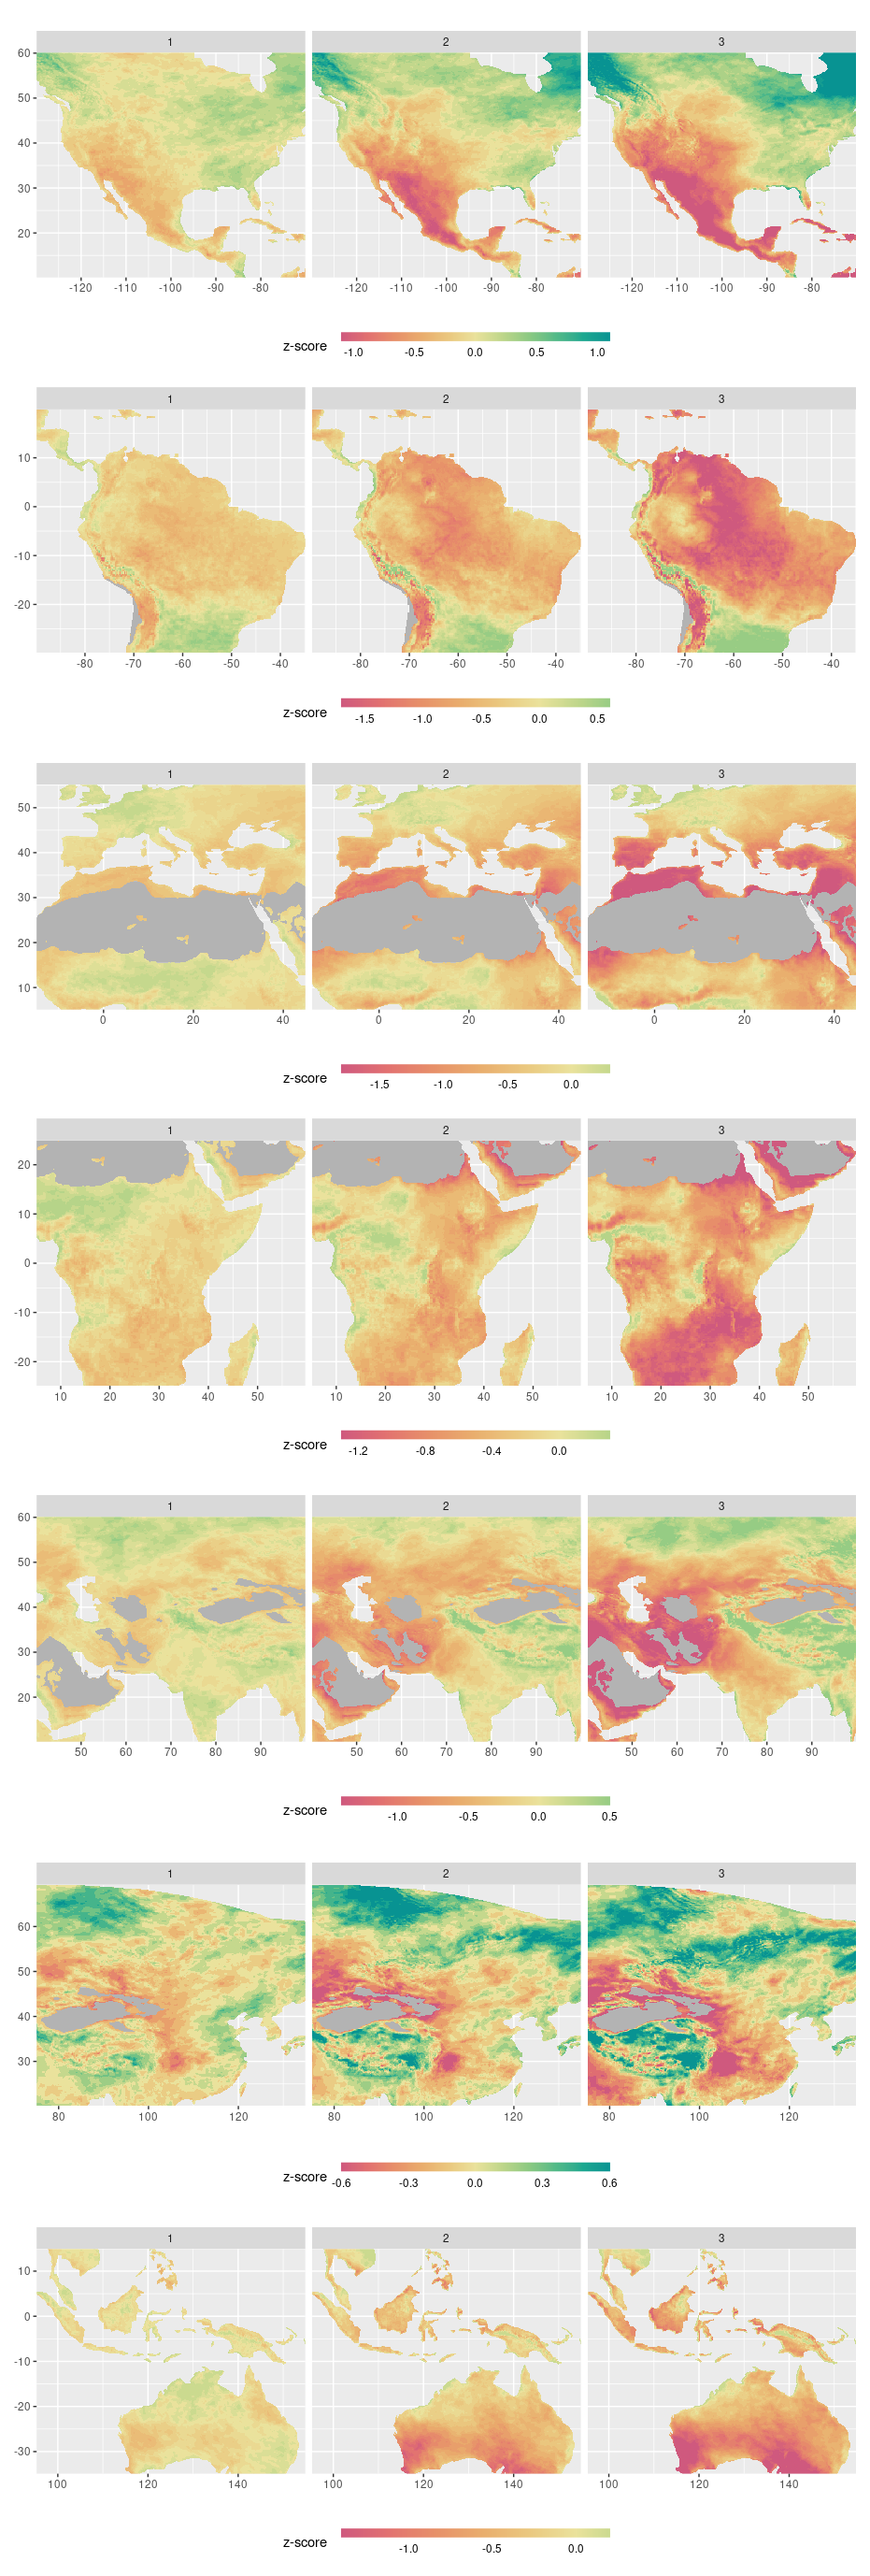
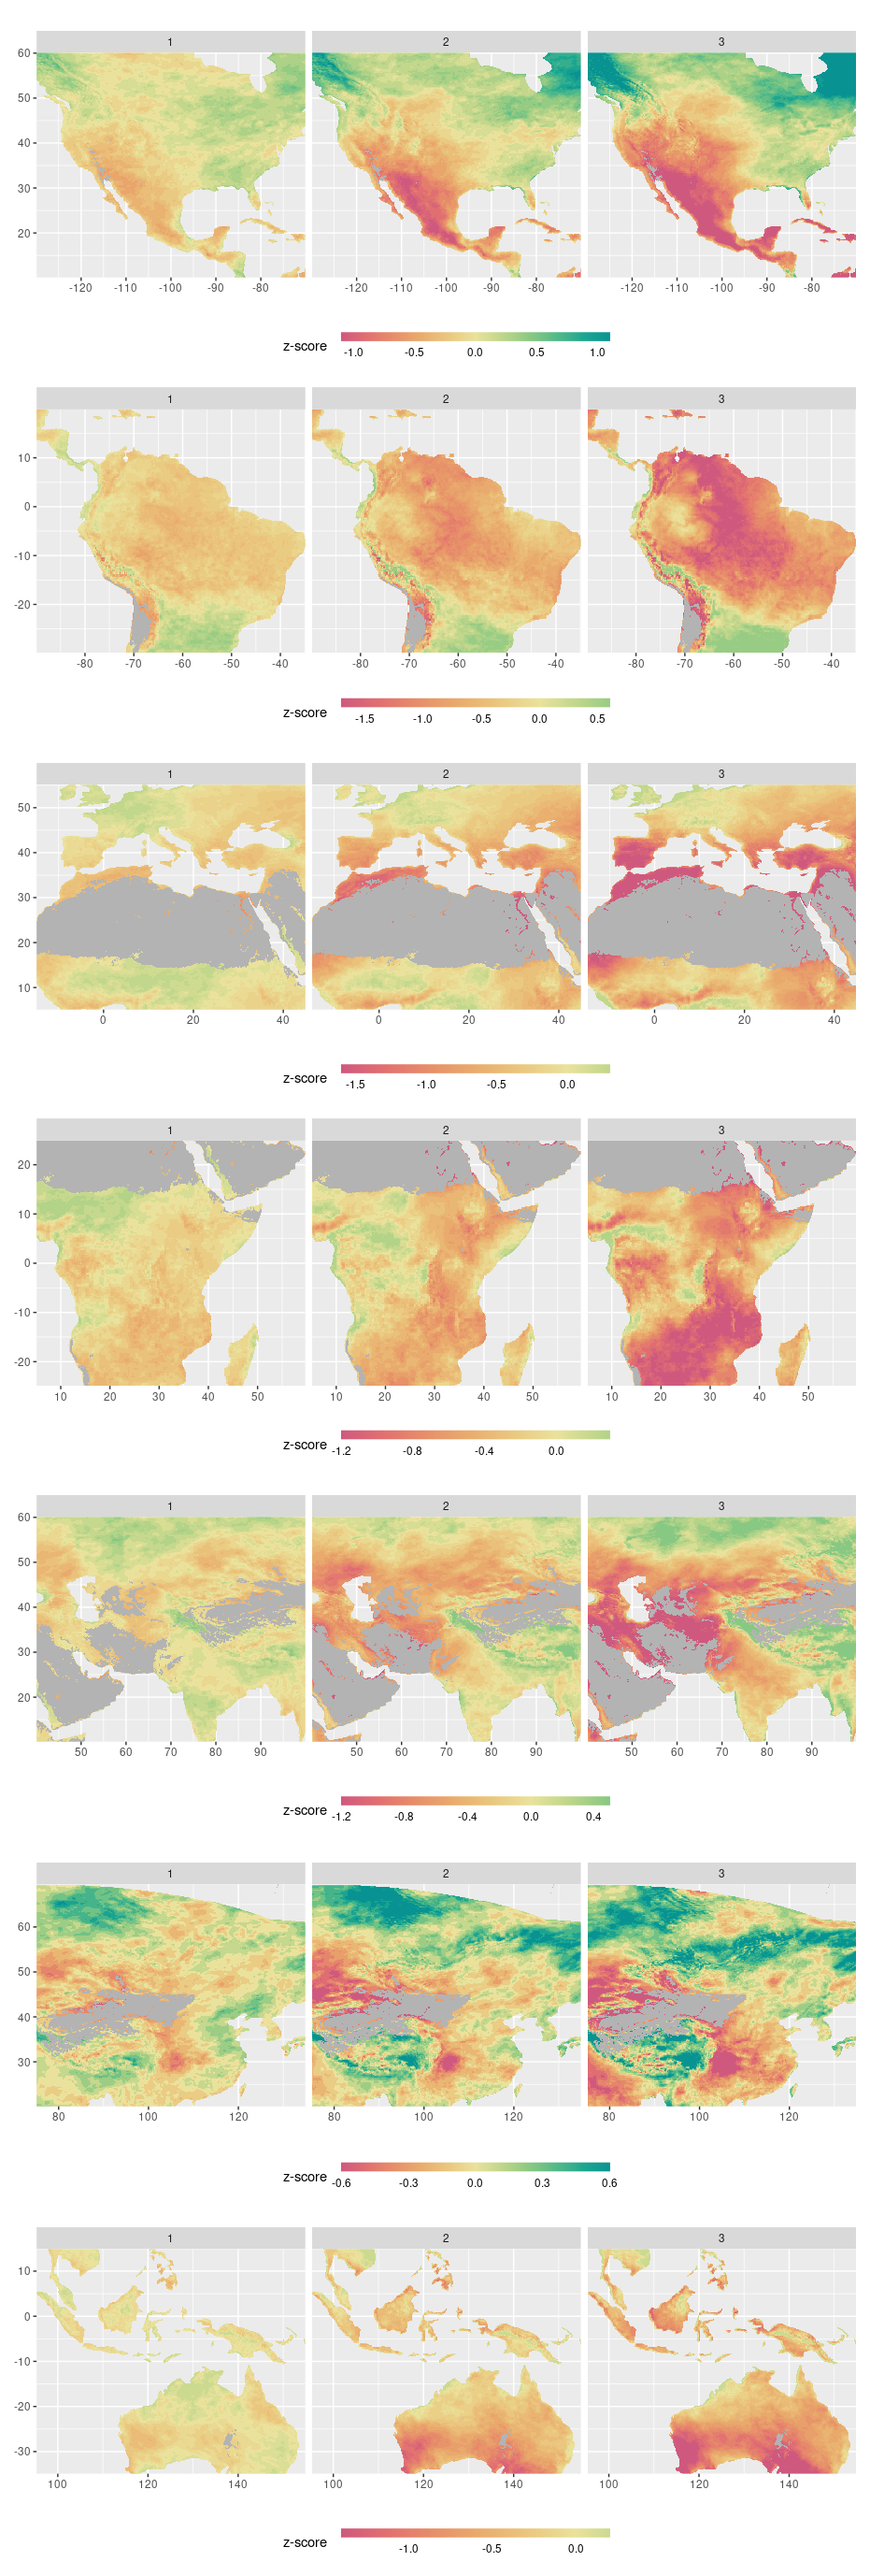
report land results

diff --git a/reports/comparisons_land.md b/reports/comparisons_land.md
@@ -1,0 +1,20 @@
+Comparisons: Land
+================
+Carlos Dobler -
+2023-03-13
+
+## Change in water balance
+
+<img src="comparisons_land_files/figure-gfm/unnamed-chunk-1-1.png" width="95%" />
+
+## Probability of year-plus drought
+
+<img src="comparisons_land_files/figure-gfm/unnamed-chunk-2-1.png" width="95%" />
+
+## Probability of year-plus extreme drought
+
+<img src="comparisons_land_files/figure-gfm/unnamed-chunk-3-1.png" width="95%" />
+
+## Change in wildfire danger days
+
+<img src="comparisons_land_files/figure-gfm/unnamed-chunk-4-1.png" width="95%" />

diff --git a/reports/exhibits_land.md b/reports/exhibits_land.md
@@ -14,3 +14,7 @@ Carlos Dobler -
 ## Likelihood year-plus extreme drought
 
 <img src="exhibits_land_files/figure-gfm/unnamed-chunk-3-1.png" width="95%" />
+
+## Change in wildfire days
+
+<img src="exhibits_land_files/figure-gfm/unnamed-chunk-4-1.png" width="95%" />
